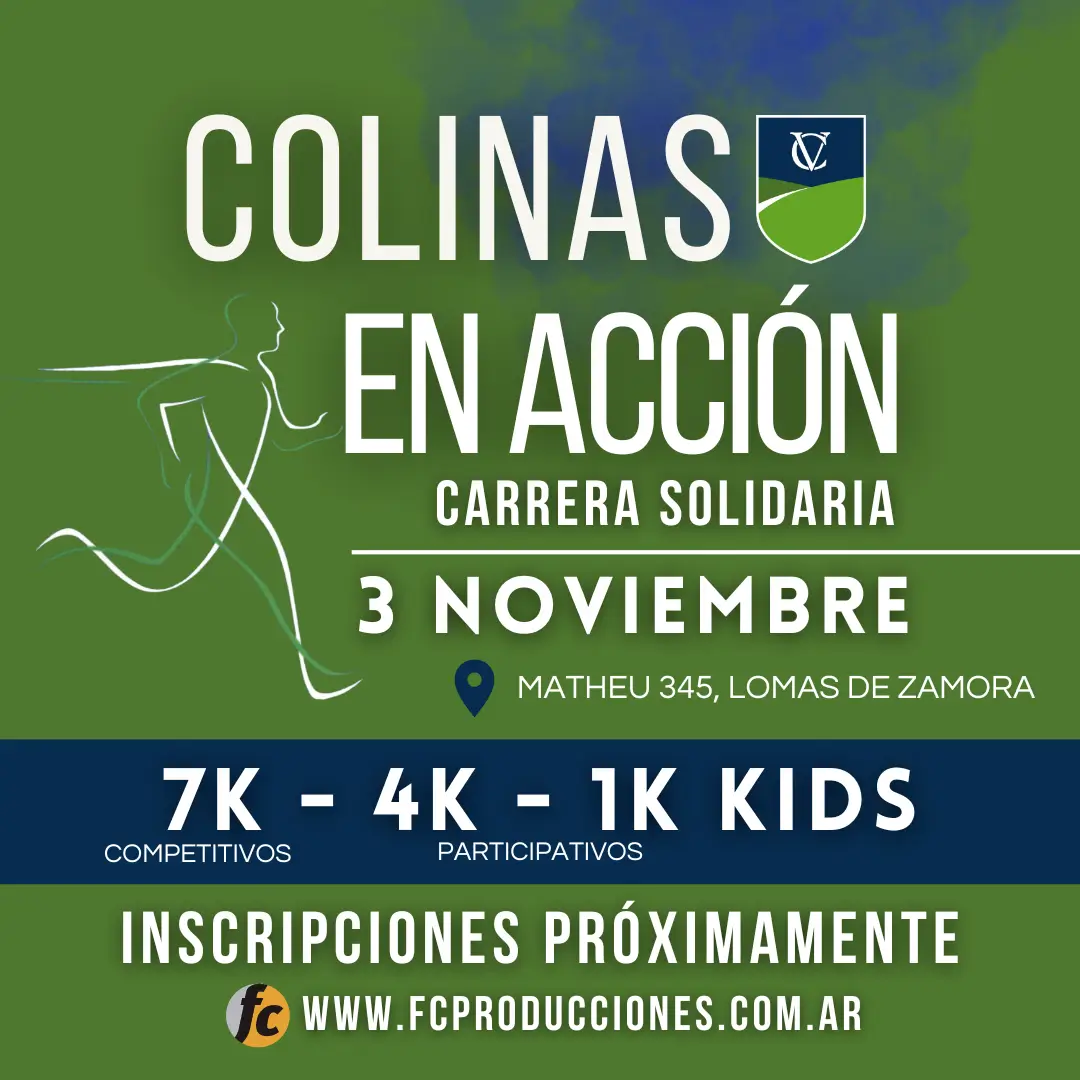
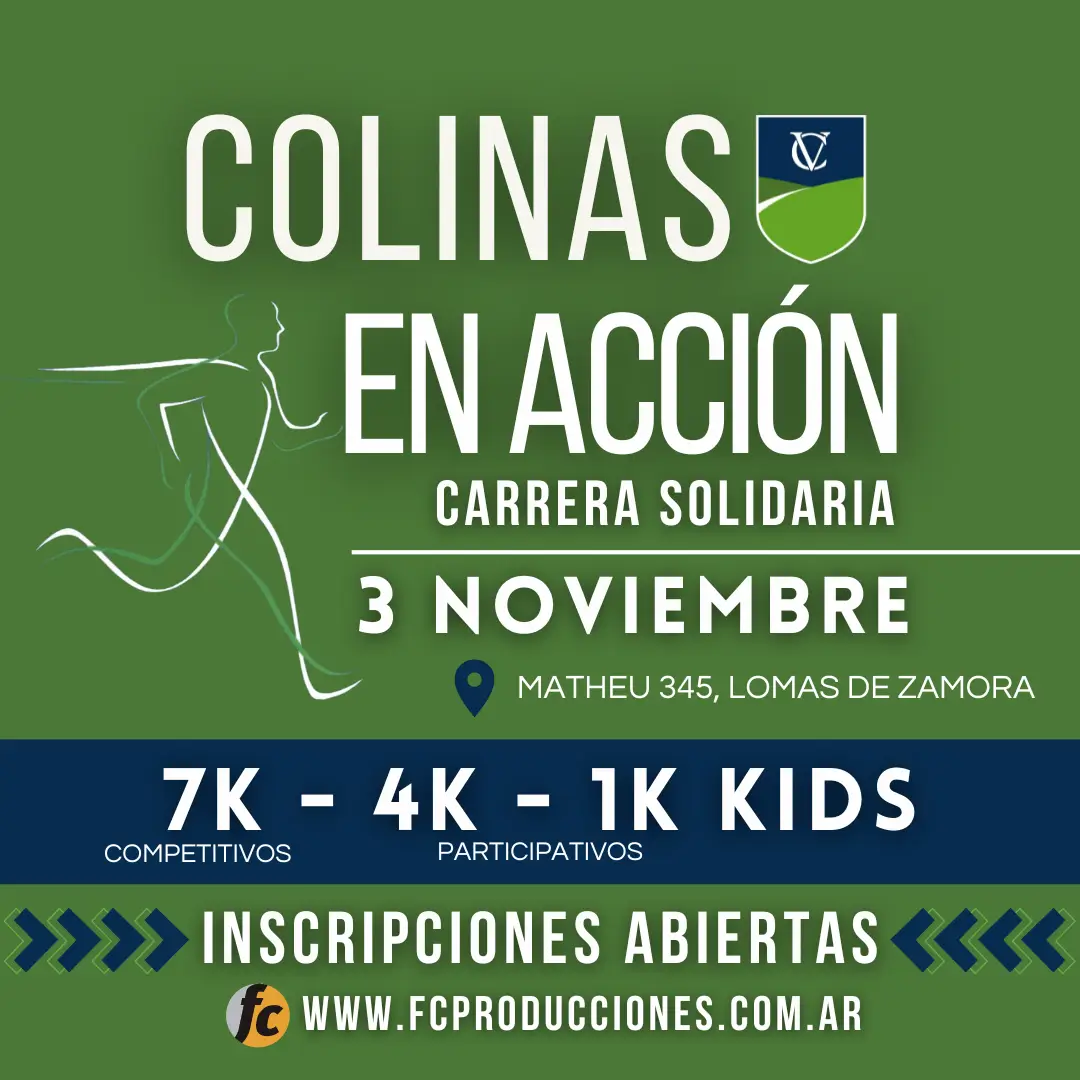
change order index

diff --git a/src/Components/Carreras/ElDesafio/Index/ElDesafio.js b/src/Components/Carreras/ElDesafio/Index/ElDesafio.js
@@ -12,6 +12,7 @@ import elDesafio from '../../../../Img/ElDesafio/elDesafio.webp';
 import Imagen10KM from '../../../../Img/ElDesafio/10KM.webp';
 import Imagen21KM from '../../../../Img/ElDesafio/21KM.webp';
 import Imagen25KM from '../../../../Img/ElDesafio/25KM.webp';
+import comoLlegar from '../../../../Img/ElDesafio/comoLlegar.webp'
 
 
 import '../Index/elDesafio.css'
@@ -176,8 +177,8 @@ function ElDesafio() {
                 <p>16 a 19hs: Acreditación a todas las distancias.</p>
 
                 <h4><mark className='mark'>- SÁBADO 05/10</mark></h4>
-                <p>10 a 14hs: Prioridad acreditación para modalidad 2 días.</p>
-                <p>10 a 17hs: Acreditación modalidad 1 día: 21K, 10K y Kids.</p>
+                <p>9 a 13hs <mark><strong>NUEVO HORARIO</strong></mark>: Prioridad acreditación para modalidad 2 días.</p>
+                <p>9 a 17hs <mark><strong>NUEVO HORARIO</strong></mark>: Acreditación modalidad 1 día: 21K, 10K y Kids.</p>
 
                 <h4><mark className='mark'>- DOMINGO 06/10</mark></h4>
                 <p>De 7:30 a 8:30 hs: se pueden acreditar quienes no llegaron ni viernes ni sábado. Para evitar complicaciones, recomendamos retirar los días previos.</p>
@@ -229,7 +230,7 @@ function ElDesafio() {
 
                 <h4><mark className='mark'>MODALIDAD 2 DÍAS</mark></h4>
                 <p><strong>- DÍA:</strong> SÁBADO 05/10</p>
-                <p><strong>- HORARIO DE SALIDA:</strong> 15 horas</p>
+                <p><strong>- HORARIO DE SALIDA:</strong> 14 horas <mark>NUEVO HORARIO</mark></p>
                 <p><strong>- DISTANCIA REAL:</strong> 25 K</p>
                 <p><strong>- MISMO LUGAR DE SALIDA QUE DE LLEGADA:</strong> RESERVA NATURAL SIERRAS GRANDES, TORNQUIST.</p>
 
@@ -240,11 +241,43 @@ function ElDesafio() {
                 <p><strong>- MISMO LUGAR DE SALIDA QUE DE LLEGADA:</strong> RESERVA NATURAL SIERRAS GRANDES, TORNQUIST.</p>
                 
                 
+                <h3>¿CÓMO LLEGAR A LA RESERVA NATURAL SIERRAS GRANDES?</h3>
+                <h4>LUGAR DE LARGADAS, LLEGADAS Y CAMPAMENTO</h4>
+                <img src={comoLlegar} alt='Como llegar a Sierras Grandes' className='comoLlegar' />
+                <ol>
+                    <li>No es posible buscar la ubicación exacta mediante GPS, por lo que hay que seguir los siguientes pasos para llegar:</li>
+                    <li>El siguiente link les marca la ruta desde el Hotel Provincial hacia la ubicación de la PRIMERA TRANQUERA que hay que atravesar, ese punto SÍ se está marcado en GPS. 
+                     <Link target='_blank' rel="noopener noreferrer" to='https://maps.app.goo.gl/FHnNcPgHSC5M1UDM6' className='enlaceBoton'>
+                <Button variant="success" size='lg' className='boton' id='enlaceBoton2' style={{paddingLeft: '2rem', paddingRight: '2rem', marginTop:'1rem'}}>
+                       RUTA 
+                    </Button>
+                    </Link>
+                    </li>
+            
+                    <li>Es una tranquera que está ubicada a 2,6 km del Hotel Provincial Sierra de la Ventana (lugar de acreditación).</li>
+                    <li>Una vez atravesada la tranquera son 6,4 kilómetros por camino de tierra hasta llegar a la Reserva Natural Sierras Grandes (lugar de llegada y salida de todas las carreras y del campamento).</li>
+                    <li>Al camino de tierra inicial acceden desde la ruta provincial 72. Verán banderas y referencias de la carrera. </li>
+                    <li>El camino estará bien señalizado para llegar de la mejor manera posible.</li>
+                </ol>
+                
+                <Link target='_blank' rel="noopener noreferrer" to='https://www.instagram.com/p/DAlyEOqpClL/?img_index=1' className='enlaceBoton'>
+                <Button variant="success" size='lg' className='boton' id='enlaceBoton2'>
+                        MÁS INFORMACIÓN ACÁ
+                    </Button>
+                    </Link>
+            
+
+
+                <h3>EL DORSAL DEBE ESTAR SIEMPRE VISIBLE</h3>
+                <p>Es de suma importancia que, durante todo el recorrido, el dorsal esté a la vista. Se debe ver siempre, tanto para la seguridad del corredor, para la clasificación como para luego poder adquirir las fotos, es decir, tener fotos disponibles. El dorsal no debe estar tapado por ropa, por mochilas de hidratación ni por cualquier objeto que imposibilite su fácil lectura.</p>
+
+                    
+                
                 <h3>CAMPAMENTO OPCIONAL (DEJA DE SER OBLIGATORIO)</h3>
                 <ul>
                     <li>El campamento será opcional tanto para la modalidad de dos días como para la de un día de carrera. LA CARPA Y TODOS LOS ELEMENTOS DE CAMPAMENTO CORREN POR CUENTA DEL CORREDOR.</li>
                     <li>Los corredores que contratan campamento, deberán primero acreditarse para luego poder acceder al mismo. Cada corredor contará con una pulsera para ingresar al predio, otorgado en la acreditación.</li>
-                    <li>El campamento (que será dentro de la Reserva Natural Sierras Grandes, donde salen y llegan todas las distancias) abrirá sus puertas a partir del sábado 5 de octubre desde las 8 am para que cada corredor pueda armar su propia carpa antes de correr.</li>
+                    <li>El campamento (que será dentro de la Reserva Natural Sierras Grandes, donde salen y llegan todas las distancias) abrirá sus puertas a partir del sábado 5 de octubre desde las 10 am para que cada corredor pueda armar su propia carpa antes de correr.</li>
                     <li>Los autos quedarán dentro del campamento, contamos con un <strong>estacionamiento sin cargo para quienes contratan el servicio</strong>.</li>
                     <li>El servicio de campamento incluye: estadía en el campo, cena del sábado, desayuno del domingo y estacionamiento sin cargo.</li>
                     <li>Los corredores de dos días que quieran acceder al campamento, lo seleccionan al momento de inscribirse. Los de 1 día y/o acompañantes, solicitan la estadía con un costo adicional por mail info@fcproducciones.com.ar</li>
@@ -391,10 +424,10 @@ function ElDesafio() {
 
                <h4><strong><mark className='mark'>SÁBADO 05/10</mark></strong></h4>
                <ul>
-                <li><strong>10 a 14 hs:</strong> Acreditación y entrega de kits con prioridad para la modalidad 2 días: Hotel Provincial de Sierra de la Ventana.</li>
-                <li><strong>10 a 17 hs:</strong> Acreditación y entrega de kits modalidad 1 día: 21K, 10K y Kids. Hotel Provincial Sierra de la Ventana.</li>
-                <li><strong>14:45 hs:</strong> Charla técnica modalidad 2 días en el arco de largada. Reserva Natural Sierras Grandes, Sierra de la Ventana, Tornquist.</li>
-                <li><strong>15 hs:</strong> Largada de la modalidad de 2 días: 25K. Reserva Natural Sierras Grandes.</li>
+                <li><strong>9 a 13 hs <mark>NUEVO HORARIO</mark>:</strong> Acreditación y entrega de kits con prioridad para la modalidad 2 días: Hotel Provincial de Sierra de la Ventana.</li>
+                <li><strong>9 a 17 hs <mark>NUEVO HORARIO</mark>:</strong> Acreditación y entrega de kits modalidad 1 día: 21K, 10K y Kids. Hotel Provincial Sierra de la Ventana.</li>
+                <li><strong>13:45 hs:</strong> Charla técnica modalidad 2 días en el arco de largada. Reserva Natural Sierras Grandes, Sierra de la Ventana, Tornquist.</li>
+                <li><strong>14 hs <mark>NUEVO HORARIO</mark>:</strong> Largada de la modalidad de 2 días: 25K. Reserva Natural Sierras Grandes.</li>
                 <li><strong>20 a 21:30 hs:</strong> Cena en el campamento de la Reserva Natural Sierras Grandes.</li>
                </ul>
 
@@ -409,7 +442,7 @@ function ElDesafio() {
                </ul>
 
                <h3>ESTACIONAMIENTO</h3>
-               <p>Se cobrará un ticket para estacionar (para quienes no contrataron el campamento) dentro de la Reserva Natural Sierras Grandes. La recaudación se utilizará para colaborar con los viajes de estudio del ciclo superior de la EEST N 1 DE TORNQUIST. Pueden comprarlo en la acreditación o al llegar al lugar.</p>
+               <p>Se cobrará un ticket a voluntad para estacionar (para quienes no contrataron el campamento) dentro de la Reserva Natural Sierras Grandes. La recaudación se utilizará para colaborar con los viajes de estudio del ciclo superior de la EEST N 1 DE TORNQUIST. Pueden comprarlo en la acreditación o al llegar al lugar.</p>
 
                <h3>AVISO DE NO SEÑAL 3G/4G/5G</h3>
                <p>Dentro del campo privado donde se realizará el evento no hay señal 3g, 4g ni 5g. Tenerlo en cuenta para avisar a familiares que estarán unas horas sin recibir mensajes ni poder enviarlos, lo mismo con las llamadas, y también por el hecho de llevar efectivo por si quieren adquirir productos de los stands, ya que no podrán utilizar mercado pago ni tarjetas de crédito.</p>
@@ -442,6 +475,7 @@ function ElDesafio() {
                 <li><strong>APTO MÉDICO. Cargar en la web o entregar en la acreditación</strong></li>
                 <li><strong>REMERA OFICIAL DE LA CARRERA</strong></li>
                 <li><strong>HIDRATACIÓN PROPIA</strong>. Más allá de la provista por la organización</li>
+                <li><strong>MANTA TÉRMICA PARA LOS 25K</strong></li>
                </ul>
 
                <h3>ELEMENTOS OBLIGATORIOS PARA EL CAMPAMENTO</h3>
@@ -454,20 +488,20 @@ function ElDesafio() {
 
                <h3>ELEMENTOS RECOMENDADOS</h3>
                <ul>
-                <li>Bastones para dos días y 21K</li>
-                <li>Ojotas: fundamental para los que acampan para tener los pies al aire libre después de cada etapa</li>
+                <li>Bastones</li>
+                <li>Chaleco o mochila con hidratación</li>
                 <li>Sombrero o gorra</li>
                 <li>Campera de lluvia</li>
-                <li>2 pares de zapatillas con buen uso previo</li>
-                <li>Protector solar</li>
+                <li>Dos pares de zapatillas</li>
+                <li>Abrigo</li>
+                <li>Ojotas</li>
+                <li>Protector Solar</li>
                 <li>Toalla</li>
-                <li>Moleskin o similar para las ampollas en los pies</li>
                 <li>Silbato</li>
-                <li>Mochila con reservorio de agua o bebida isotónica</li>
                 <li>Kit de primeros auxilios</li>
                 <li>Toallitas higiénicas</li>
                 <li>Polainas</li>
-                <li>Repelente de mosquitos</li>
+                <li>Repelente para mosquitos</li>
                </ul>
 
                 

diff --git a/src/Components/InfoCarreras/Carreras.js b/src/Components/InfoCarreras/Carreras.js
@@ -16,24 +16,30 @@ function Carreras() {
     return (
         <section className='carreras'>
 
+        <h1 className='titulo'>Novedades</h1>
+
+        <div className='containerGeneral'>
+        <article className='container'>
+        <img src={eldesafio} className="carrerasimg" alt='Carrera El Desafío'></img>
+        <h2 className='tituloResultados'>RESULTADOS Y FOTOS</h2>
+        <p className='texto'>Acá podrán ver los resultados y posteriormente las fotos y videos de llegada de todas las distancias.</p>
+        
+        <Link to='https://eventols.com/e/desafio-columbia-sierra-de-la-ventana-2024/results'>
+        <Button variant="success" size='lg' className='botondesafio'> RESULTADOS</Button>
+        </Link>
+
+        
+        <Button variant="success" size='lg' className='botondesafio' disabled style={{marginTop: '1rem'}}><Link to='https://fotols.com/e/desafio-columbia-sierra-de-la-ventana/fc-producciones'>FOTOS</Link></Button>
+       
+
+        </article>
+        </div>
+
+
         <h1 className='titulo'>PRÓXIMAS CARRERAS</h1>
 
         <div className='containerGeneral'>
 
-
-        <article className='container'>
-        <img src={eldesafio} className="carrerasimg" alt='Carrera El Desafío'></img>
-        <h2 className='tituloResultados'>DESAFÍO COLUMBIA SIERRA</h2>
-        <p className='texto'>El Desafío Columbia es un evento de dos modalidades. 2 días de competencia: 25K + 21K con campamento opcional o 1 día: 21K, 10K o KIDS por Sierra de la Ventana, Buenos Aires.</p>
-        <Button variant="success" size='lg' className='botondesafio'> <Link to='desafio-columbia'>Más información</Link></Button>
-        </article>
-
-        <article className='container'>
-           <img src={AlcecPrueba} id='AlcecPrueba' className="carrerasimg" alt='Carrera Alecec'></img>
-           <h2 className='tituloResultados'>TODOS SOMOS ALCEC</h2>
-            <p className='texto'>Todos Somos Alcec es un evento solidario que organizamos junto a la Asociación de Lucha Contra el Cáncer de Concepción del Uruguay, en Entre Ríos, hace 10 años. Son 8K, 4K y 1K con más de 3.000 participantes.</p>
-             <Button variant="danger" size='lg' className='botonAlecec'> <Link to='alcec'>Más información</Link></Button>
-            </article>
 
             <article className='container'>
            <img src={DesafioColinas} id='AlcecPrueba' className="carrerasimg" alt='Carrera Colinas Verdes' style={{borderRadius: '0px', objectFit: 'contain'}}></img>
@@ -50,6 +56,20 @@ function Carreras() {
              
 
             <div className='containerGeneral'>
+
+            <article className='container'>
+        <img src={eldesafio} className="carrerasimg" alt='Carrera El Desafío'></img>
+        <h2 className='tituloResultados'>DESAFÍO COLUMBIA SIERRA</h2>
+        <p className='texto'>El Desafío Columbia es un evento de dos modalidades. 2 días de competencia: 25K + 21K con campamento opcional o 1 día: 21K, 10K o KIDS por Sierra de la Ventana, Buenos Aires.</p>
+        <Button variant="success" size='lg' className='botondesafio'> <Link to='desafio-columbia'>Más información</Link></Button>
+        </article>
+
+        <article className='container'>
+           <img src={AlcecPrueba} id='AlcecPrueba' className="carrerasimg" alt='Carrera Alecec'></img>
+           <h2 className='tituloResultados'>TODOS SOMOS ALCEC</h2>
+            <p className='texto'>Todos Somos Alcec es un evento solidario que organizamos junto a la Asociación de Lucha Contra el Cáncer de Concepción del Uruguay, en Entre Ríos, hace 10 años. Son 8K, 4K y 1K con más de 3.000 participantes.</p>
+             <Button variant="danger" size='lg' className='botonAlecec'> <Link to='alcec'>Más información</Link></Button>
+            </article>
            
            <div>
                <article className='container' id='novedades'>

diff --git a/src/Components/Carreras/ElDesafio/Index/elDesafio.css b/src/Components/Carreras/ElDesafio/Index/elDesafio.css
@@ -148,6 +148,22 @@
     min-height: 60vh;
 }
 
+.elDesafio .comoLlegar{
+    width: 80vw;
+    border-radius: 3%;
+    display: flex;
+    margin: 2rem auto;
+    justify-content: center;;
+}
+
+.elDesafio #enlaceBoton2{
+    display: flex;
+    justify-content: center;
+    margin: auto;
+    align-items: center;
+    margin-bottom: 2rem;
+    padding: 1rem;
+}
 
 @media (min-width: 768px){
     .elDesafio{
@@ -210,6 +226,10 @@
     .elDesafio .redes li{
         padding: 0 0.5rem;
         font-size: 3.2rem;
+    }
+
+    .elDesafio .comoLlegar{
+        width: 60vw;
     }
        
 }
@@ -298,6 +318,10 @@
     .elDesafio .recorridos{
         width: 50vw;
         border-radius: 10px;
+    }
+
+    .elDesafio .comoLlegar{
+        width: 45vw;
     }
 
 }
@@ -391,6 +415,11 @@
         width: 40vw;
         border-radius: 20px;
     }
+
+    .elDesafio .comoLlegar{
+        width: 40vw;
+    }
+
  
 
 }

diff --git a/src/Components/Carreras/Colinas/Colinas.js b/src/Components/Carreras/Colinas/Colinas.js
@@ -42,13 +42,13 @@ function Colinas() {
           <div className="contenedorBotones">
        
         <div>
-        <Button variant="secondary" size="lg" className="botonResultados" id="botonesDuo" disabled>
+        <Button variant="secondary" size="lg" className="botonResultados" id="botonesDuo">
             <Link
               target="_blank"
               rel="noopener noreferrer"
               to='https://eventols.com/e/colinas-en-accion'
             >
-              INSCRIPCIONES PRÓXIMAMENTE
+              INSCRIPCIONES ABIERTAS
             </Link>
           </Button>
         </div>
